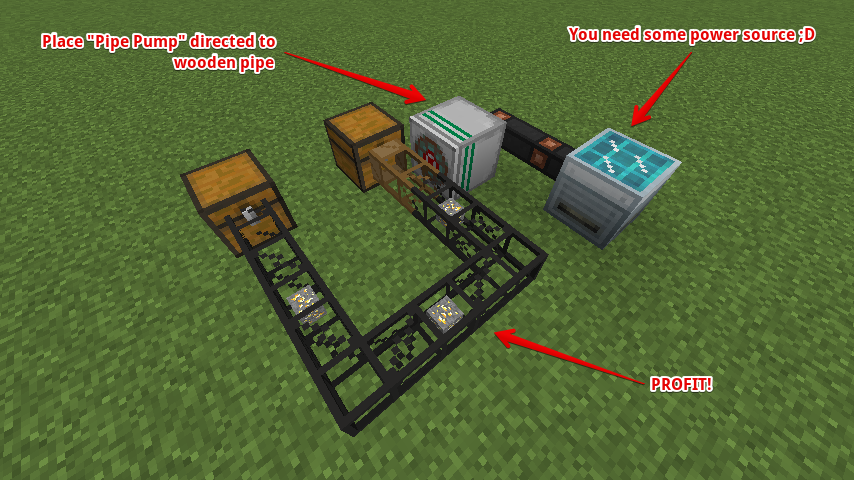
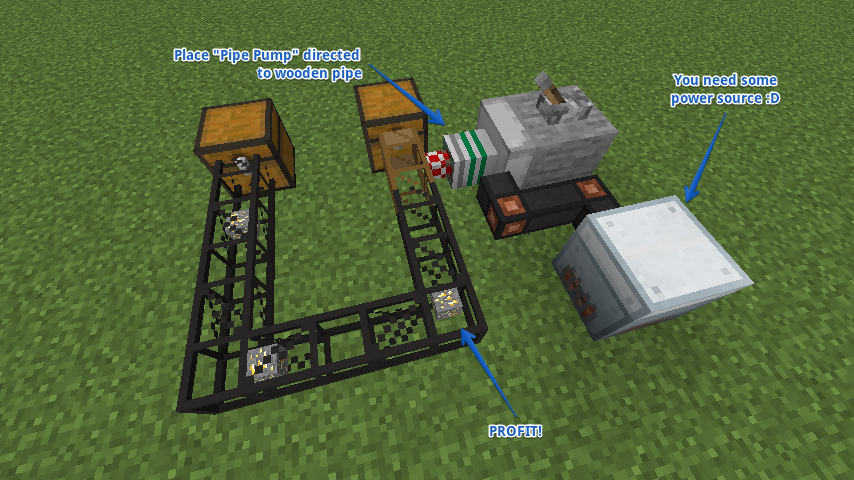
#3 Add model for pipe pump

diff --git a/src/main/java/ru/cr1zyb0y/pipevacuumpump/blocks/MachinePipePumpBlock.java b/src/main/java/ru/cr1zyb0y/pipevacuumpump/blocks/MachinePipePumpBlock.java
@@ -2,19 +2,27 @@ package ru.cr1zyb0y.pipevacuumpump.blocks;
 
 import net.fabricmc.api.EnvType;
 import net.fabricmc.api.Environment;
+
+import net.minecraft.block.BlockState;
 import net.minecraft.block.entity.BlockEntity;
 import net.minecraft.client.gui.screen.Screen;
 import net.minecraft.client.item.TooltipContext;
+import net.minecraft.entity.EntityContext;
 import net.minecraft.item.ItemStack;
 import net.minecraft.text.Text;
 import net.minecraft.text.TranslatableText;
 import net.minecraft.util.Formatting;
+import net.minecraft.util.math.BlockPos;
+import net.minecraft.util.math.Direction;
+import net.minecraft.util.shape.VoxelShape;
+import net.minecraft.util.shape.VoxelShapes;
 import net.minecraft.world.BlockView;
 
 import reborncore.api.blockentity.IMachineGuiHandler;
 import reborncore.common.blocks.BlockMachineBase;
 
 import ru.cr1zyb0y.pipevacuumpump.blocksentity.MachinePipePumpBlockEntity;
+import ru.cr1zyb0y.pipevacuumpump.utils.VoxelShapeHelper;
 
 import java.util.List;
 
@@ -22,11 +30,30 @@ public class MachinePipePumpBlock extends BlockMachineBase
 {
     private int _energyCost;
     private int _pumpSpeedTick;
+    private VoxelShape[] _blockShapes;
 
     public MachinePipePumpBlock(int energyCost, int pumpSpeedTick)
     {
         _energyCost = energyCost;
         _pumpSpeedTick = pumpSpeedTick;
+        _blockShapes = VoxelShapeHelper.getRotatedHorizontalShapes(Direction.NORTH, getBaseShape());
+    }
+
+    private VoxelShape getBaseShape()
+    {
+        return VoxelShapes.union
+        (
+            VoxelShapes.cuboid(0f, 0f, 0.624f, 1.0f, 1.0f, 1.0f),
+            VoxelShapes.cuboid(0.25f, 0.25f, 0.062f, 0.75f, 0.75f, 0.75f)
+        );
+    }
+
+    //Now is no gui, later we need add GUI with "vacuuming progress" and upgrades
+    @Override
+    public IMachineGuiHandler getGui()
+    {
+
+        return null;
     }
 
     //Get pump item speed
@@ -35,16 +62,23 @@ public class MachinePipePumpBlock extends BlockMachineBase
         return _pumpSpeedTick;
     }
 
-    //Now is no gui, later we need add GUI with "vacuuming progress" and upgrades
-    @Override
-    public IMachineGuiHandler getGui() { return null; }
-
     //Base cost per tick
     public int getEnergyCost() { return _energyCost; }
 
     //Create block entity
     @Override
-    public BlockEntity createBlockEntity(BlockView worldIn) { return new MachinePipePumpBlockEntity(); }
+    public BlockEntity createBlockEntity(BlockView worldIn)
+    {
+        return new MachinePipePumpBlockEntity();
+    }
+
+    //make block valid view
+    @SuppressWarnings("deprecation")
+    @Override
+    public VoxelShape getOutlineShape(BlockState state, BlockView view, BlockPos pos, EntityContext ctx)
+    {
+        return _blockShapes[state.get(FACING).getHorizontal()];
+    }
 
     //make tooltip for block
     @Environment(EnvType.CLIENT)

diff --git a/src/main/java/ru/cr1zyb0y/pipevacuumpump/blocksentity/MachinePipePumpBlockEntity.java b/src/main/java/ru/cr1zyb0y/pipevacuumpump/blocksentity/MachinePipePumpBlockEntity.java
@@ -11,6 +11,8 @@ import ru.cr1zyb0y.pipevacuumpump.blocks.MachinePipePumpBlock;
 
 public class MachinePipePumpBlockEntity extends PowerAcceptorBlockEntity
 {
+    private int _energyCost = 1;
+
     public MachinePipePumpBlockEntity()
     {
         super(RegistryManager.PIPE_PUMP_BLOCK_ENTITY);
@@ -27,7 +29,7 @@ public class MachinePipePumpBlockEntity extends PowerAcceptorBlockEntity
             return;
         }
 
-        BlockState state = world.getBlockState(pos);
+        BlockState state = world.getBlockState(getPos());
         Block block = state.getBlock();
 
         if (block instanceof MachinePipePumpBlock)
@@ -47,7 +49,8 @@ public class MachinePipePumpBlockEntity extends PowerAcceptorBlockEntity
             }
 
             //Consume energy
-            double energyCost = getEuPerTick(vacuumPump.getEnergyCost());
+            _energyCost = vacuumPump.getEnergyCost();
+            double energyCost = getEuPerTick(_energyCost);
             if (getEnergy() > energyCost)
             {
                 useEnergy(getEuPerTick(energyCost));
@@ -66,11 +69,11 @@ public class MachinePipePumpBlockEntity extends PowerAcceptorBlockEntity
 
     //this is capacity
     @Override
-    public double getBaseMaxPower() { return 33; }
+    public double getBaseMaxPower() { return getBaseMaxInput() * 8; } //256 512 1024
 
     //return max input
     @Override
-    public double getBaseMaxInput() { return 32; }
+    public double getBaseMaxInput() { return _energyCost * 16 * 2; } // 32 64 128
 
     //we are won't generating energy
     @Override

diff --git a/src/main/java/ru/cr1zyb0y/pipevacuumpump/utils/VoxelShapeHelper.java b/src/main/java/ru/cr1zyb0y/pipevacuumpump/utils/VoxelShapeHelper.java
@@ -1,0 +1,34 @@
+package ru.cr1zyb0y.pipevacuumpump.utils;
+
+import net.minecraft.util.math.Direction;
+import net.minecraft.util.shape.VoxelShape;
+import net.minecraft.util.shape.VoxelShapes;
+
+public class VoxelShapeHelper
+{
+    public static VoxelShape[] getRotatedHorizontalShapes(Direction from, VoxelShape source)
+    {
+        VoxelShape shapeNorth = rotateShape(from, Direction.NORTH, source);
+        VoxelShape shapeEast = rotateShape(from, Direction.EAST, source);
+        VoxelShape shapeSouth = rotateShape(from, Direction.SOUTH, source);
+        VoxelShape shapeWest = rotateShape(from, Direction.WEST, source);
+        return new VoxelShape[] { shapeSouth, shapeWest, shapeNorth, shapeEast };
+    }
+
+    public static VoxelShape rotateShape(Direction from, Direction to, VoxelShape shape)
+    {
+        VoxelShape[] buffer = new VoxelShape[] { shape, VoxelShapes.empty() };
+
+        int times = (to.getHorizontal() - from.getHorizontal() + 4) % 4;
+
+        for (int i = 0; i < times; i++)
+        {
+            buffer[0].forEachBox((minX, minY, minZ, maxX, maxY, maxZ) -> buffer[1] =
+                    VoxelShapes.union(buffer[1], VoxelShapes.cuboid(1-maxZ, minY, minX, 1-minZ, maxY, maxX)));
+            buffer[0] = buffer[1];
+            buffer[1] = VoxelShapes.empty();
+        }
+
+        return buffer[0];
+    }
+}

diff --git a/src/main/java/ru/cr1zyb0y/pipevacuumpump/RegistryManager.java b/src/main/java/ru/cr1zyb0y/pipevacuumpump/RegistryManager.java
@@ -1,8 +1,12 @@
 package ru.cr1zyb0y.pipevacuumpump;
 
+import net.fabricmc.api.EnvType;
+import net.fabricmc.api.Environment;
+import net.fabricmc.fabric.api.blockrenderlayer.v1.BlockRenderLayerMap;
 import net.fabricmc.fabric.api.client.itemgroup.FabricItemGroupBuilder;
 import net.minecraft.block.Block;
 import net.minecraft.block.entity.BlockEntityType;
+import net.minecraft.client.render.RenderLayer;
 import net.minecraft.item.BlockItem;
 import net.minecraft.item.Item;
 import net.minecraft.item.ItemGroup;
@@ -48,6 +52,15 @@ public class RegistryManager
         PIPE_PUMP_BLOCK_ENTITY = Registry.register(Registry.BLOCK_ENTITY_TYPE, getName("vacuum_pump"),
                 BlockEntityType.Builder.create(MachinePipePumpBlockEntity::new,
                         PIPE_PUMP_BLOCK_TIER1, PIPE_PUMP_BLOCK_TIER2, PIPE_PUMP_BLOCK_TIER3).build(null));
+    }
+
+    //Init client side effects
+    @SuppressWarnings("MethodCallSideOnly")
+    public static void ClientInit()
+    {
+        BlockRenderLayerMap.INSTANCE.putBlock(PIPE_PUMP_BLOCK_TIER1, RenderLayer.getCutout());
+        BlockRenderLayerMap.INSTANCE.putBlock(PIPE_PUMP_BLOCK_TIER2, RenderLayer.getCutout());
+        BlockRenderLayerMap.INSTANCE.putBlock(PIPE_PUMP_BLOCK_TIER3, RenderLayer.getCutout());
     }
 
     //Dumb way to register block with item

diff --git a/src/main/java/ru/cr1zyb0y/pipevacuumpump/PipeVacuumPumpModClient.java b/src/main/java/ru/cr1zyb0y/pipevacuumpump/PipeVacuumPumpModClient.java
@@ -1,0 +1,12 @@
+package ru.cr1zyb0y.pipevacuumpump;
+
+import net.fabricmc.api.ClientModInitializer;
+
+public class PipeVacuumPumpModClient implements ClientModInitializer
+{
+    @Override
+    public void onInitializeClient()
+    {
+        RegistryManager.ClientInit();
+    }
+}

diff --git a/README.md b/README.md
@@ -22,6 +22,8 @@ Now you need to use Pipe Pump for using wood pipes, and that consume energy from
 
 ![Consume even if chest empty](/docs/usage3.png)
 
+![Use triggers, bro](/docs/usage4.png)
+
 ## Crafting Recipes
   
 **Pipe Pump - Tier 1**
@@ -44,3 +46,10 @@ Now you need to use Pipe Pump for using wood pipes, and that consume energy from
 * Energy cost - **4** per tick
 
 ![Pipe Pump - Tier 3](/docs/tier_3.png)
+
+## Plans
+
+- Add engine model
+- Add electric fluid pump
+- Add pipe pump animations like in BuildCraft
+- Maybe some other advanced automation tools
